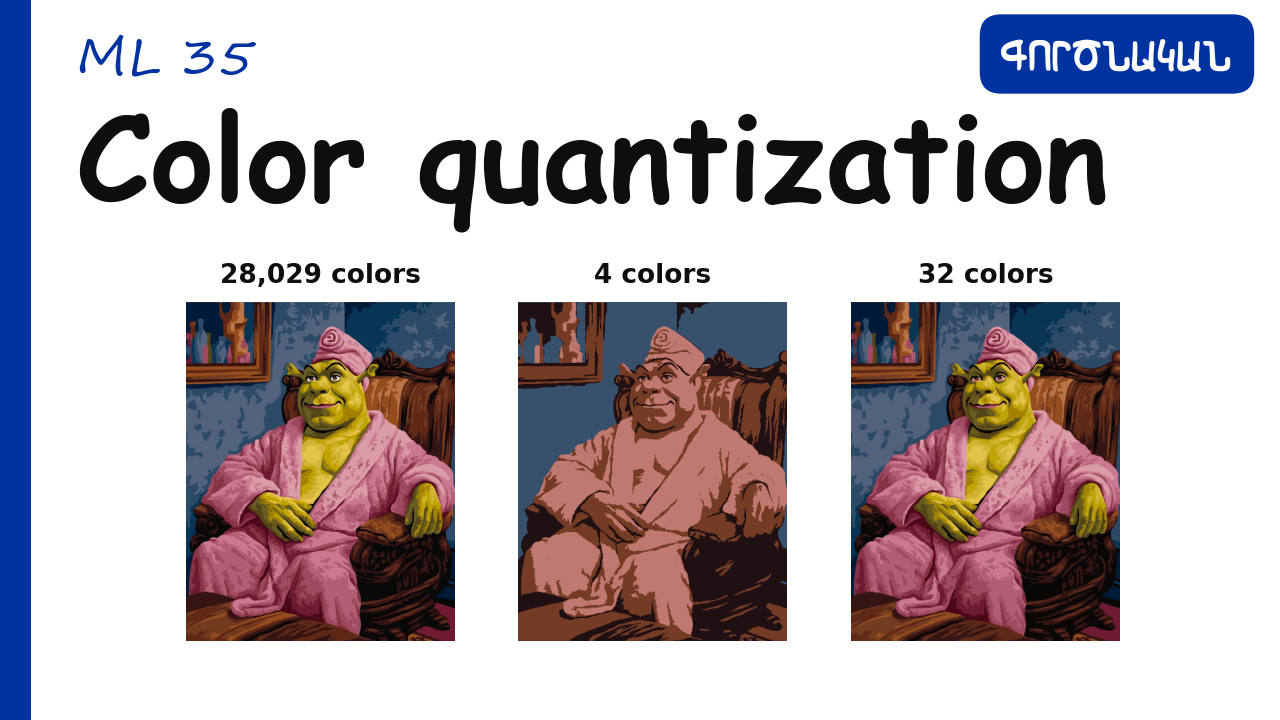
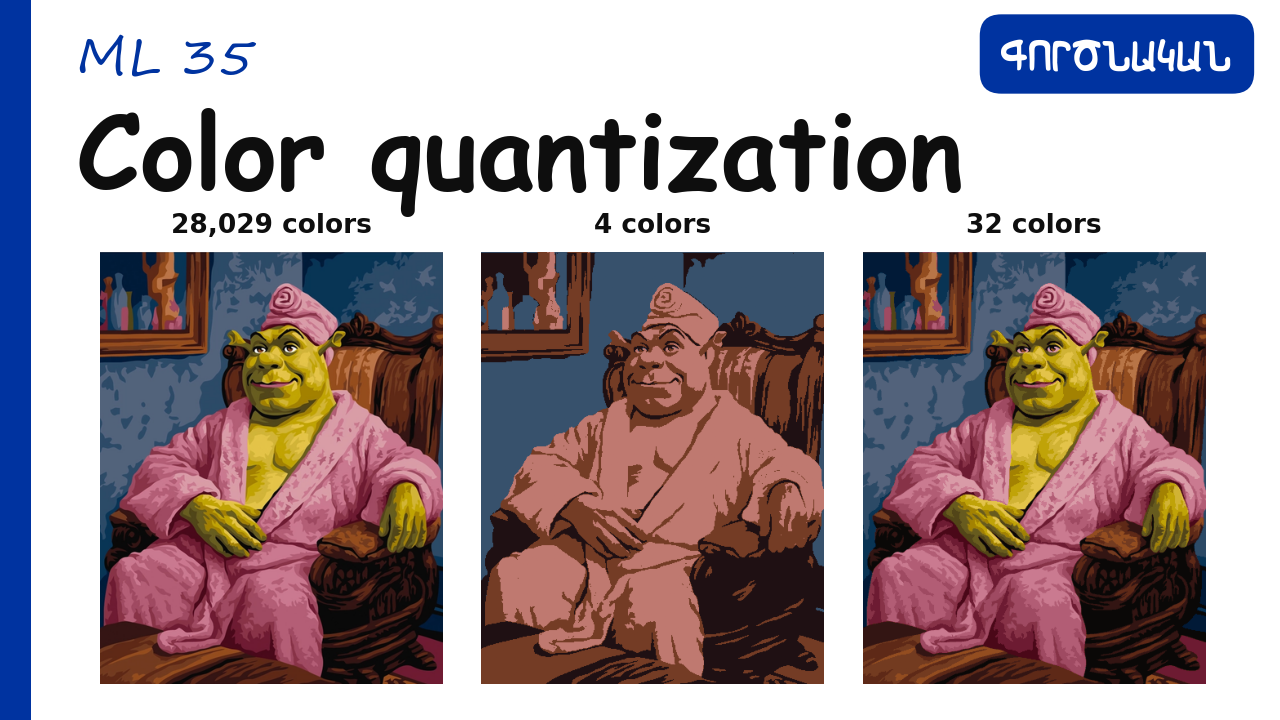
Enlarge the ML35 thumbnail panels to fill the band width
The row was capped by max_h, so the three portrait panels stayed ~267px wide and
left ~175px of dead space on each side. Raising the cap makes the row
width-limited instead; the gap and title size come down so the taller panels and
their captions still clear the title. Panels are now ~340px wide.

diff --git a/scripts/make_thumbnails_final.py b/scripts/make_thumbnails_final.py
@@ -1302,7 +1302,7 @@ def draw_ml35_quantization(fig, bbox):
     _draw_image_row(fig, bbox,
                     ["ml35_shrek_original.png", "ml35_shrek_k4.png", "ml35_shrek_k32.png"],
                     captions=["28,029 colors", "4 colors", "32 colors"],
-                    gap=0.05, max_h=0.47)
+                    gap=0.03, max_h=0.60, lift=0.01)
 
 
 # ---------- lesson configs ----------
@@ -1564,10 +1564,10 @@ LESSONS = [
     # panels, the painting at 124,841 colours vs k-means with 4 and with 32.
     {
         "tag": "ML 35", "title": "Color quantization",
-        "title_size": 48, "title_max": 86, "title_latin": True,
+        "title_size": 46, "title_max": 74, "title_latin": True,
         "draw": draw_ml35_quantization, "practical": True,
         "bar_color": UNSUP_BAR,
-        "chart_bbox": (0.05, 0.05, 0.92, 0.46), "out": "ML35.png",
+        "chart_bbox": (0.05, 0.04, 0.92, 0.46), "out": "ML35.png",
     },
 ]
 
